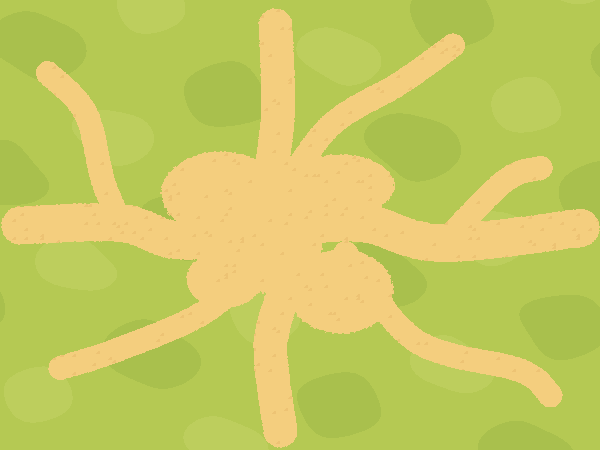
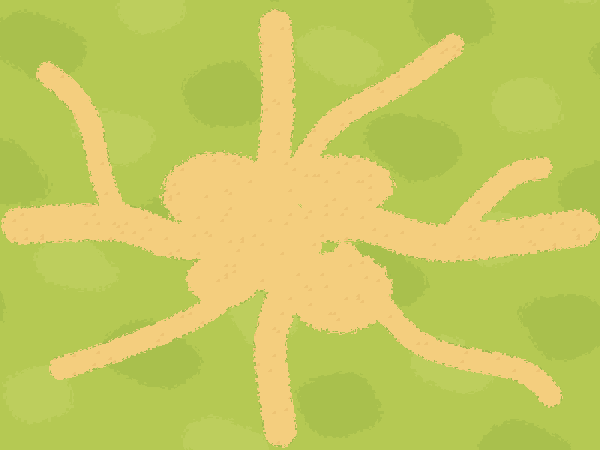
feat(art): polish approved village ground scale and ambient life

diff --git a/docs/decisions/HUB_V3_POLIMENTO.md b/docs/decisions/HUB_V3_POLIMENTO.md
@@ -1,0 +1,16 @@
+# Hub V3 — polimento aprovado
+
+Status: APROVADA em 11/10/2026.
+
+Thiago: “Isso, faça essas alterações também. mas salve essa versão ultima
+versão. vai ser o novo ponto de partida”.
+
+Base permanente: tag `baseline-hub-v3-aprovado-2026-10-11`, commit `544ddae`.
+Tag enviada ao remoto antes de modificar o visual.
+
+Escopo: chão/trilhas com bordas naturais, vegetação agrupada, escala aparente
+do explorador compatível com NPCs, HUD menos obstrutiva e pequenos movimentos
+de ambiente. Preservar construções aprovadas, sprites sólidos de monstros,
+rotas, bases, serviços, colisões, combate e saves. Sem rio/ponte nesta etapa.
+As poses de caminhada existentes do explorador permanecem. NPCs ficam
+plantados; piscadas não deslocam corpo, pés ou interação.

diff --git a/docs/ARCHITECTURE.md b/docs/ARCHITECTURE.md
@@ -1,5 +1,11 @@
 # Arquitetura
 ## Hub V3 (Andar 1)
+Polimento: ground.png mantém as rotas e recebe franjas preparadas offline.
+Arbustos têm posições autorais sem colisões novas. Flores e tufos usam poucos
+retângulos estáticos na mesma grade de 2 px. Explorador desenha 60x60 apenas
+no tema V3, sem escalar ActorView/Player ou seu corpo físico. NPCs piscam sem
+alterar transform; fogueira usa um overlay de poucos retângulos a 8 Hz. Sem
+partículas, luzes ou shaders. HUD horizontal distribui os painéis no topo.
 FloorV2View usa ground.png estático e atlas hub_v3, nearest 2x proporcional.
 Sprites estáticos são criados uma vez com z derivado dos pés. ActorView usa
 o mesmo z: copas e telhados encobrem personagens atrás, sem redesenhar artes.

diff --git a/docs/design/GAME_DESIGN.md b/docs/design/GAME_DESIGN.md
@@ -1,5 +1,7 @@
 # Game Design — fundação v0.1
 ## Hub V3 — reconstrução aprovada em 11/10/2026
+Polimento adicional autorizado conforme HUB_V3_POLIMENTO.md. A versão
+544ddae fica preservada na tag baseline-hub-v3-aprovado-2026-10-11.
 Conforme HUB_RECONSTRUCAO_V3.md e pedido “faça então”: redistribuir a vila do
 Andar 1, substituir suas artes e ajustar NPCs/interações às posições visíveis.
 Pequenas bases de construções podem bloquear movimento, mantendo vias abertas.
